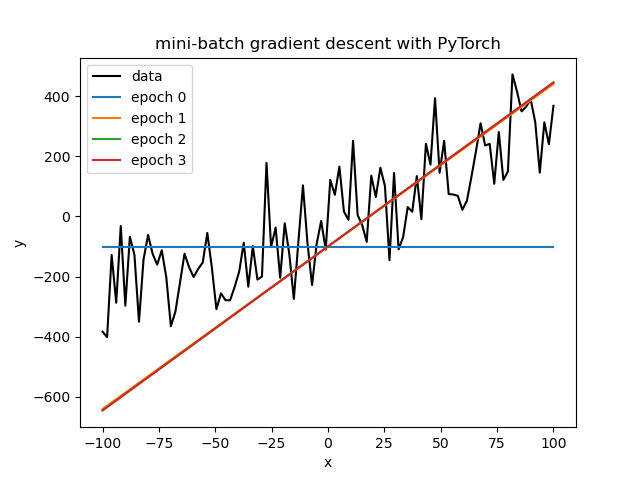
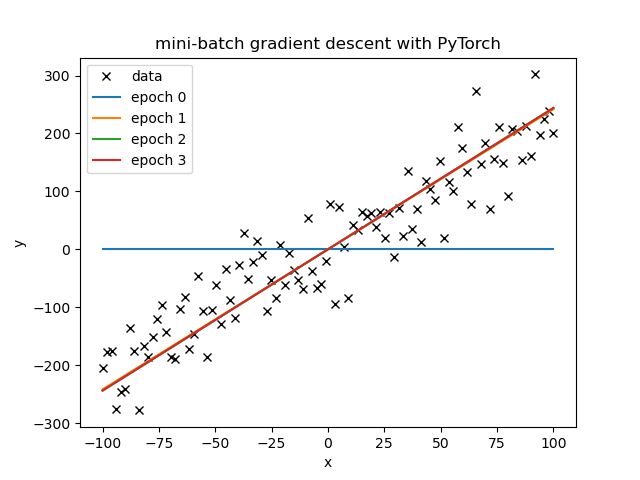
Removed multiple learning rates to make the LR codes more similar.

diff --git a/LR_miniBatch_datasetDataLoader.py b/LR_miniBatch_datasetDataLoader.py
@@ -7,7 +7,7 @@ from torch.utils.data import Dataset, DataLoader
 
 #create noisy data
 class noisyLineData(Dataset):
-    def __init__(self, N=100, slope=3, intercept=2, stdDev=100):
+    def __init__(self, N=100, slope=2, intercept=3, stdDev=50):
         self.x = torch.linspace(-100,100,N) 
         self.y = slope*self.x + intercept + np.random.normal(0, stdDev, N) #can use numpy for random
     
@@ -23,11 +23,10 @@ trainloader = DataLoader(dataset = data, batch_size = 20)
 
 #Global fit parameters w and b, and the prediction vector yhat
 modelParams = {'w': torch.tensor(float(0),requires_grad = True),
-              'b': torch.tensor(float(-100),requires_grad = True)  }
+              'b': torch.tensor(float(0),requires_grad = True)  }
 
 #Learning parameters
-wlr = 1e-4 #learning Rate of slope
-blr = 2e-1 #learning Rate of bias
+lr = 1e-4 #learning Rate 
 epochs = 4 # number of iterations
 
 #general function which use and modify the global parameters
@@ -43,7 +42,7 @@ def criterion(yhat, y):
     
     return torch.mean( ( yhat - y )**2 )
 
-def backward(loss, modelParams, wlr, blr):
+def backward(loss, modelParams, lr):
     """The backward step is the the optimization step. We calculate the gradient of the
     loss w.r.t. the model parameters (w and b) and travel in the negative gradient direction
     to minimize the loss. Simple Gradient Descent. """
@@ -52,9 +51,9 @@ def backward(loss, modelParams, wlr, blr):
     #contriubuting tensors with the "requires_grad = True" in their constructor.
     loss.backward() 
     
-    #gradient descent (with different learning rates)
-    modelParams['w'].data = modelParams['w'].data - wlr * modelParams['w'].grad.data
-    modelParams['b'].data = modelParams['b'].data - blr * modelParams['b'].grad.data
+    #gradient descent 
+    modelParams['w'].data = modelParams['w'].data - lr * modelParams['w'].grad.data
+    modelParams['b'].data = modelParams['b'].data - lr * modelParams['b'].grad.data
     
     #must zero out the gradient otherwise pytorch accumulates the gradient. 
     modelParams['w'].grad.data.zero_()
@@ -78,7 +77,7 @@ for epoch in range(epochs):
 
         error.append(loss.data) #saving data
 
-        backward(loss, modelParams, wlr, blr) #major step 3/3    
+        backward(loss, modelParams, lr) #major step 3/3    
 
 #saving data
 params.append( [modelParams['w'].data, modelParams['b'].data, epochs] )
@@ -91,7 +90,7 @@ print(error)
 print(error_total)
 
 plt.figure()
-plt.plot(data.x.numpy(), data.y.numpy(), 'k', label="data")
+plt.plot(data.x.numpy(), data.y.numpy(), 'xk', label="data")
 for param in params:
     plt.plot(data.x.numpy(),param[0]*data.x.numpy()+param[1], label = f'epoch {int(param[2])}')
 plt.legend()

diff --git a/LR_noDatasetClass.py b/LR_noDatasetClass.py
@@ -6,20 +6,19 @@ import matplotlib.pyplot as plt
 
 #create noisy data
 N = 100
-slope = 3
-intercept = 2
-stdDev = 100 #standard deviation of noise
+slope = 2
+intercept = 3
+stdDev = 50 #standard deviation of noise
 x = torch.linspace(-100,100,N) 
 y = slope*x + intercept + np.random.normal(0, stdDev, N) #can use numpy for random
 
 #Global fit parameters w and b, and the prediction vector yhat
 w = torch.tensor(float(0),requires_grad = True) #slope
-b = torch.tensor(float(-100),requires_grad = True) #intercept
+b = torch.tensor(float(0),requires_grad = True) #intercept
 yhat = torch.zeros(N) #prediction
 
 #Learning parameters
-wlr = 1e-4 #learning Rate of slope
-blr = 2e-1 #learning Rate of bias
+lr = 1e-4 #learning Rate
 iterations = 4 # number of iterations
 
 #general function which use and modify the global parameters
@@ -35,7 +34,7 @@ def criterion(yhat, y):
     
     return torch.mean( ( yhat - y )**2 )
 
-def backward(loss, wlr, blr):
+def backward(loss, lr):
     """The backward step is the the optimization step. We calculate the gradient of the
     loss w.r.t. the model parameters (w and b) and travel in the negative gradient direction
     to minimize the loss. Simple Gradient Descent. """
@@ -45,8 +44,8 @@ def backward(loss, wlr, blr):
     loss.backward() 
     
     #gradient descent (with different learning rates)
-    w.data = w.data - wlr*w.grad.data
-    b.data = b.data - blr*b.grad.data
+    w.data = w.data - lr*w.grad.data
+    b.data = b.data - lr*b.grad.data
     
     #must zero out the gradient otherwise pytorch accumulates the gradient. 
     w.grad.data.zero_()
@@ -63,7 +62,7 @@ for i in range(iterations):
     
     loss = criterion(yhat, y) #major step 2/3
 
-    backward(loss, wlr, blr) #major step 3/3    
+    backward(loss, lr) #major step 3/3    
 
     error.append(loss.data) #saving data
 
@@ -76,7 +75,8 @@ error = np.array(error)
 #Simple display of the learning 
 print(error)
 
-plt.plot(x.numpy(), y.numpy(), 'k', label="data")
+plt.figure()
+plt.plot(x.numpy(), y.numpy(), 'xk', label="data")
 for param in params:
     plt.plot(x.numpy(),param[0]*x.numpy()+param[1], label = f'epoch {int(param[2])}')
 plt.legend()

diff --git a/LR_miniBatch_PyTorchWay.py b/LR_miniBatch_PyTorchWay.py
@@ -8,7 +8,7 @@ from torch import nn, optim
 
 #create noisy data
 class noisyLineData(Dataset):
-    def __init__(self, N=100, slope=3, intercept=2, stdDev=100):
+    def __init__(self, N=100, slope=2, intercept=3, stdDev=50):
         self.x = torch.linspace(-100,100,N).view(-1,1)
         noise = torch.normal( mean=torch.zeros(N), std= stdDev * torch.ones(N) ).view(-1,1)
         self.y = slope*self.x + intercept + noise
@@ -37,7 +37,7 @@ criterion = nn.MSELoss()
 
 model = linear_regression(1,1)
 model.state_dict()['linear.weight'][0] = 0
-model.state_dict()['linear.bias'][0] = -100
+model.state_dict()['linear.bias'][0] = 0 
 
 optimizer = optim.SGD(model.parameters(), lr = 1e-4)
 
@@ -64,11 +64,10 @@ def train_model(epochs):
 
 
 PARAMS, ERROR = train_model(4)
+
 #Simple display of the learning 
-
-
 plt.figure()
-plt.plot(data.x.numpy(), data.y.numpy(), 'k', label="data")
+plt.plot(data.x.numpy(), data.y.numpy(), 'xk', label="data")
 for param in PARAMS:
     plt.plot(data.x.numpy(),param[0]*data.x.numpy()+param[1], label = f'epoch {int(param[2])}')
 plt.legend()
